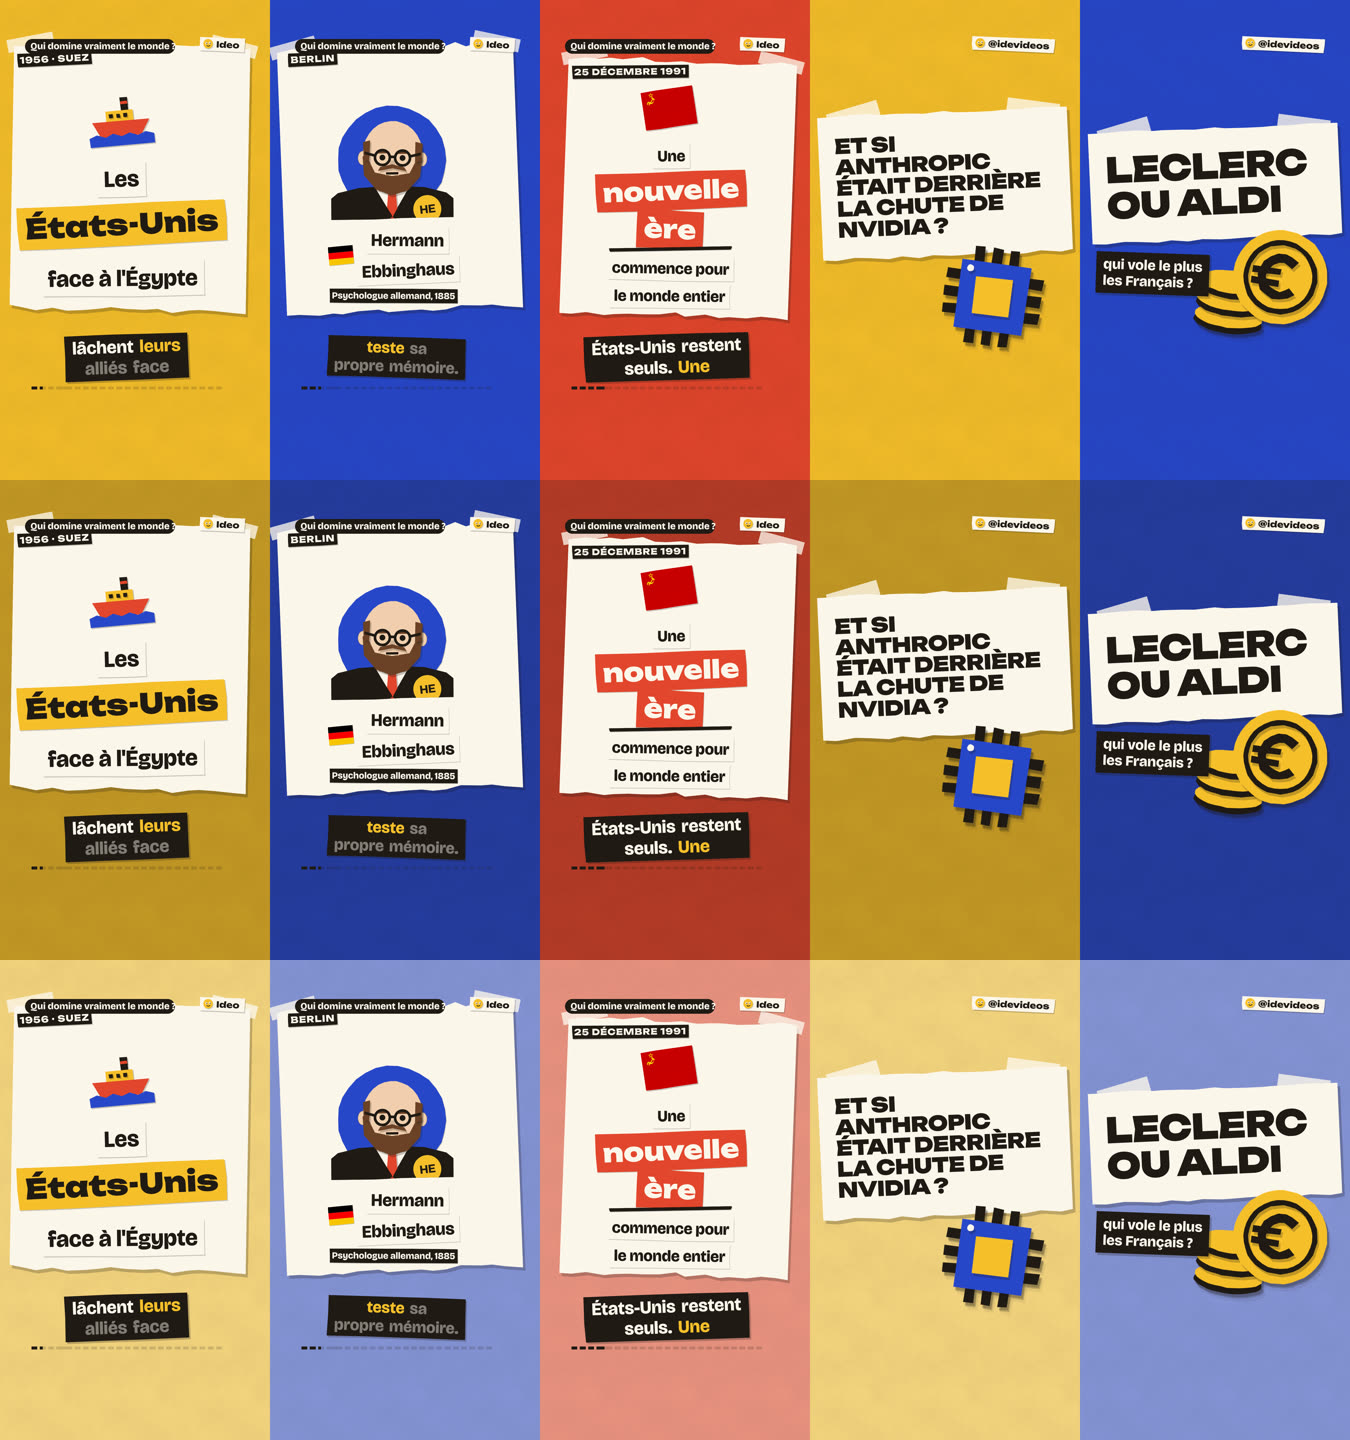
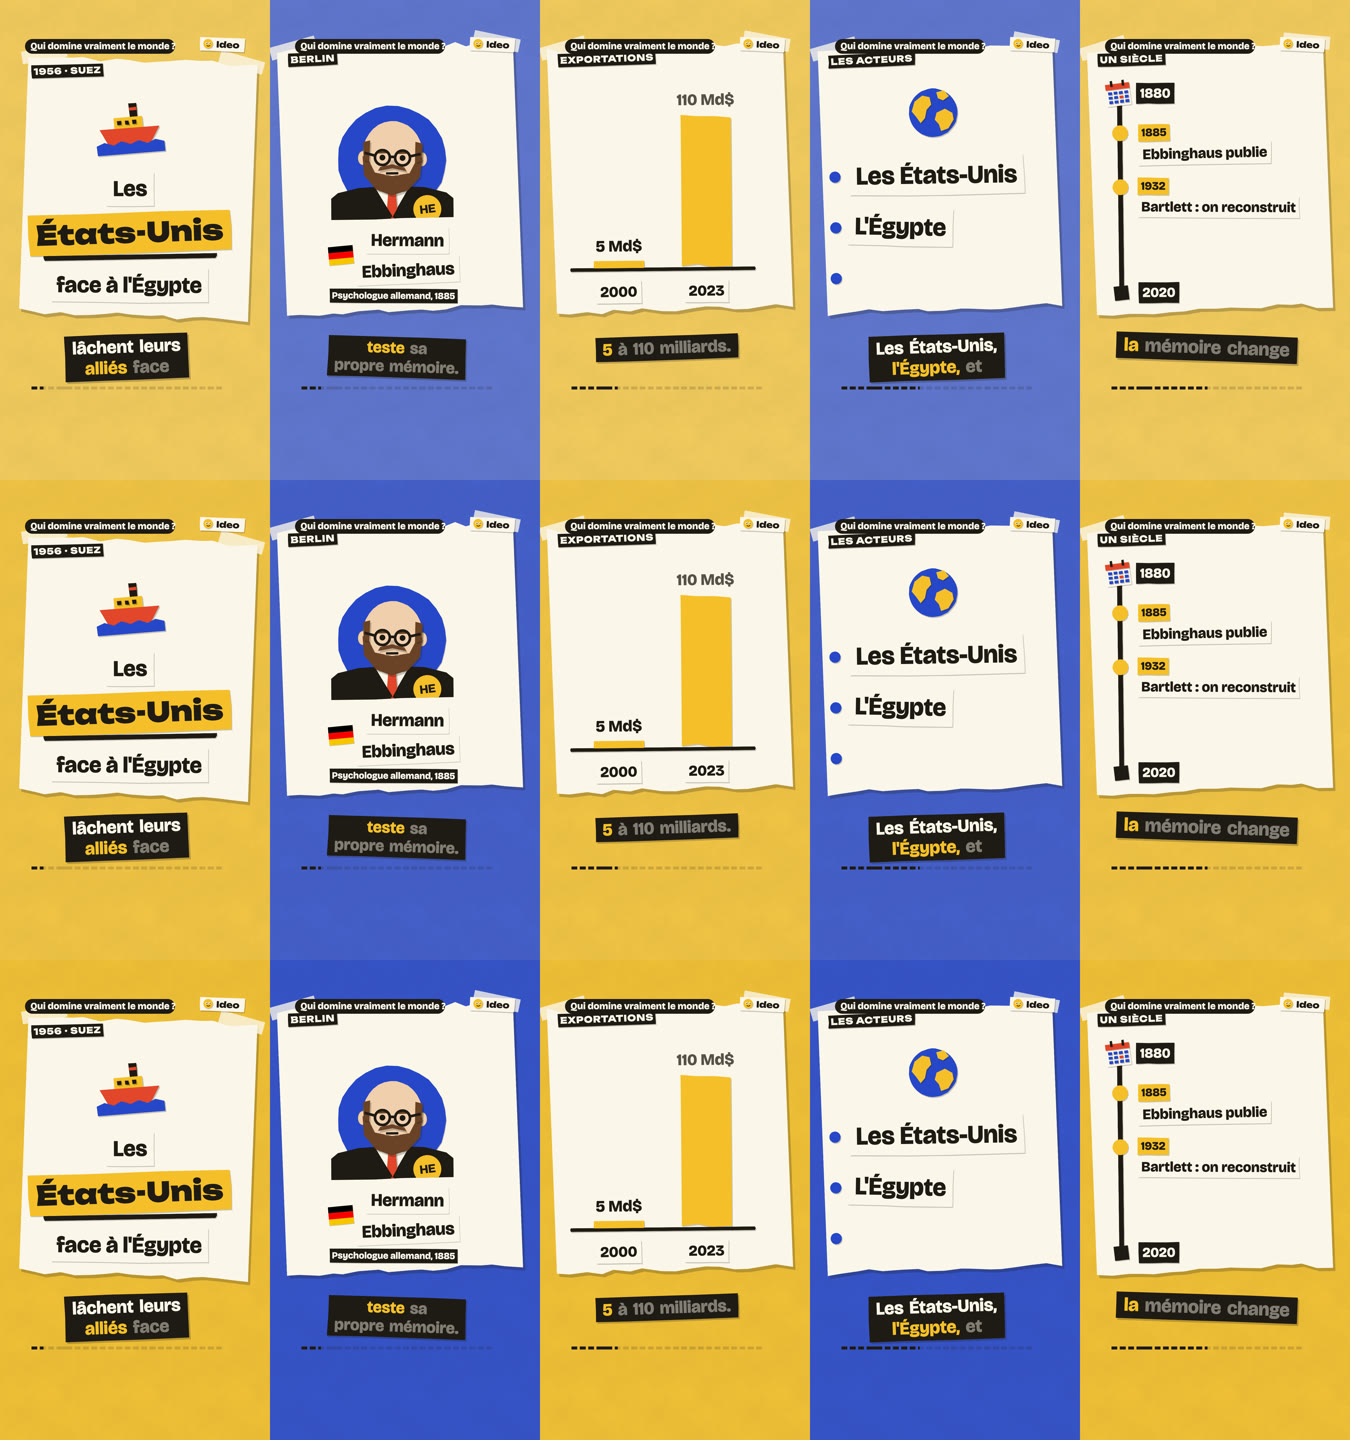
Fond des scènes moins pastel : 15 % de crème au lieu de 28 %
La couleur de la scène reprend sa place. La doc retire aussi un nom de chaîne et deux tirets cadratins, et l'image de comparaison montre 28, 15 et 8 %.

diff --git a/render/src/theme.ts b/render/src/theme.ts
@@ -102,7 +102,7 @@ export type AccentColor = "red" | "yellow" | "blue";
 export const accentCycle: readonly AccentColor[] = ["red", "yellow", "blue"];
 
 export const GROUNDS: Record<"light" | Mood, { toward: PaperColor; amount: number }> = {
-  light: { toward: "cream", amount: 0.28 },
+  light: { toward: "cream", amount: 0.15 },
   dark: { toward: "ink", amount: 0.35 },
 };
 let ground = GROUNDS.light;

diff --git a/docs/direction-artistique/README.md b/docs/direction-artistique/README.md
@@ -4,14 +4,14 @@
 
 Outil : `python -m ideo rythme <job | fichier vidéo> [--seuil 0.15]` (voir `ideo/rythme.py`).
 
-Cinq vidéos TikTok de storytelling servent de référence : Petrov en pixel art, sorcières de 1600, Hushpuppi (MARA!), « La tresse », Tupac (MARA!). Elles sont comparées à deux vidéos Ideo finalisées (Nvidia/Anthropic, Leclerc/Aldi). Les chiffres excluent l'écran de fin TikTok.
+Cinq vidéos TikTok de storytelling servent de référence : Petrov en pixel art, sorcières de 1600, Hushpuppi, « La tresse », Tupac. Elles sont comparées à deux vidéos Ideo finalisées (Nvidia/Anthropic, Leclerc/Aldi). Les chiffres excluent l'écran de fin TikTok.
 
 | | Petrov | Sorcières | Hushpuppi | Tresse | Tupac | **Ideo Nvidia** | **Ideo Leclerc** |
 |---|---|---|---|---|---|---|---|
 | Durée | 61 s | 94 s | 201 s | 93 s | 150 s | 250 s | 173 s |
 | Plans/min | 27 | 34 | 22 | 27 | ~19 (à l'œil) | **7** | **6** |
 | Plan médian | 2,0 s | 1,4 s | 2,6 s | 2,2 s | ~3 s | **8,8 s** | **9,0 s** |
-| Mots par plan (médiane) | 3,5 | 6 | 8 | 9 | — | **25** | **28** |
+| Mots par plan (médiane) | 3,5 | 6 | 8 | 9 | n.d. | **25** | **28** |
 | Mots/s hors pauses | 3,7 | 4,1 | 4,4 | 4,9 | 4,5 | 3,7 | 3,7 |
 | Part du temps en pause | 30 % | 1 % | 29 % | 21 % | 22 % | 23 % | 16 % |
 | Sous-titres | 1-2 mots | 1-2 mots | mots-clés | 1 mot | mots-clés | ~4 mots, petits | ~4 mots, petits |
@@ -31,7 +31,7 @@ Limites :
 ## 2. Ce qui a changé dans Ideo (PR #37)
 
 **Direction artistique « papier découpé abouti »** (choisie parmi 3 maquettes de cover) :
-- Fond plein cadre en version **adoucie** de la couleur de la scène (28 % de crème, `GROUNDS` dans `render/src/theme.ts`). Il change à chaque scène, et il est assombri en ambiance sombre. La version vive prenait trop de place, la version à 45 % était trop pastel : voir `fonds-compares.jpg`, dont la ligne du bas montre l'ancien réglage à 45 %.
+- Fond plein cadre en version **adoucie** de la couleur de la scène (15 % de crème, `GROUNDS` dans `render/src/theme.ts`). Il change à chaque scène, et il est assombri en ambiance sombre. La version vive prenait trop de place, 45 % puis 28 % étaient trop pastel : voir `fonds-compares.jpg` (de haut en bas : 28 %, 15 %, 8 %).
 - Le contenu est posé sur une feuille crème déchirée et scotchée (`render/src/paper/Sheet.tsx`). Le texte n'est jamais posé directement sur la couleur.
 - Les mots-clés (accroche, titres, étiquettes) sont en Unbounded.
 - Sous-titres : 1 à 2 mots (`MAX_GROUP = 2`), très gros, dans une étiquette noire, avec le mot prononcé en jaune.
@@ -62,4 +62,4 @@ Images : `scenes-avant.jpg`, `scenes-apres.jpg`, `covers.jpg`, `fonds-compares.j
 
 - **Environnement « Ideo » :** environnement cloud personnel créé pendant cette session. Il autorise Hugging Face, pour le modèle Whisper de `rythme`, et Google Drive.
 - **Téléchargement du modèle Whisper :** passe par `HF_HUB_DISABLE_XET=1` ou par l'hôte `cas-server.xethub.hf.co`.
-- **Maquettes des directions de cover et des scènes :** artifact privé « Ideo — directions de cover » sur claude.ai.
+- **Maquettes des directions de cover et des scènes :** artifact privé « Ideo, directions de cover » sur claude.ai.
